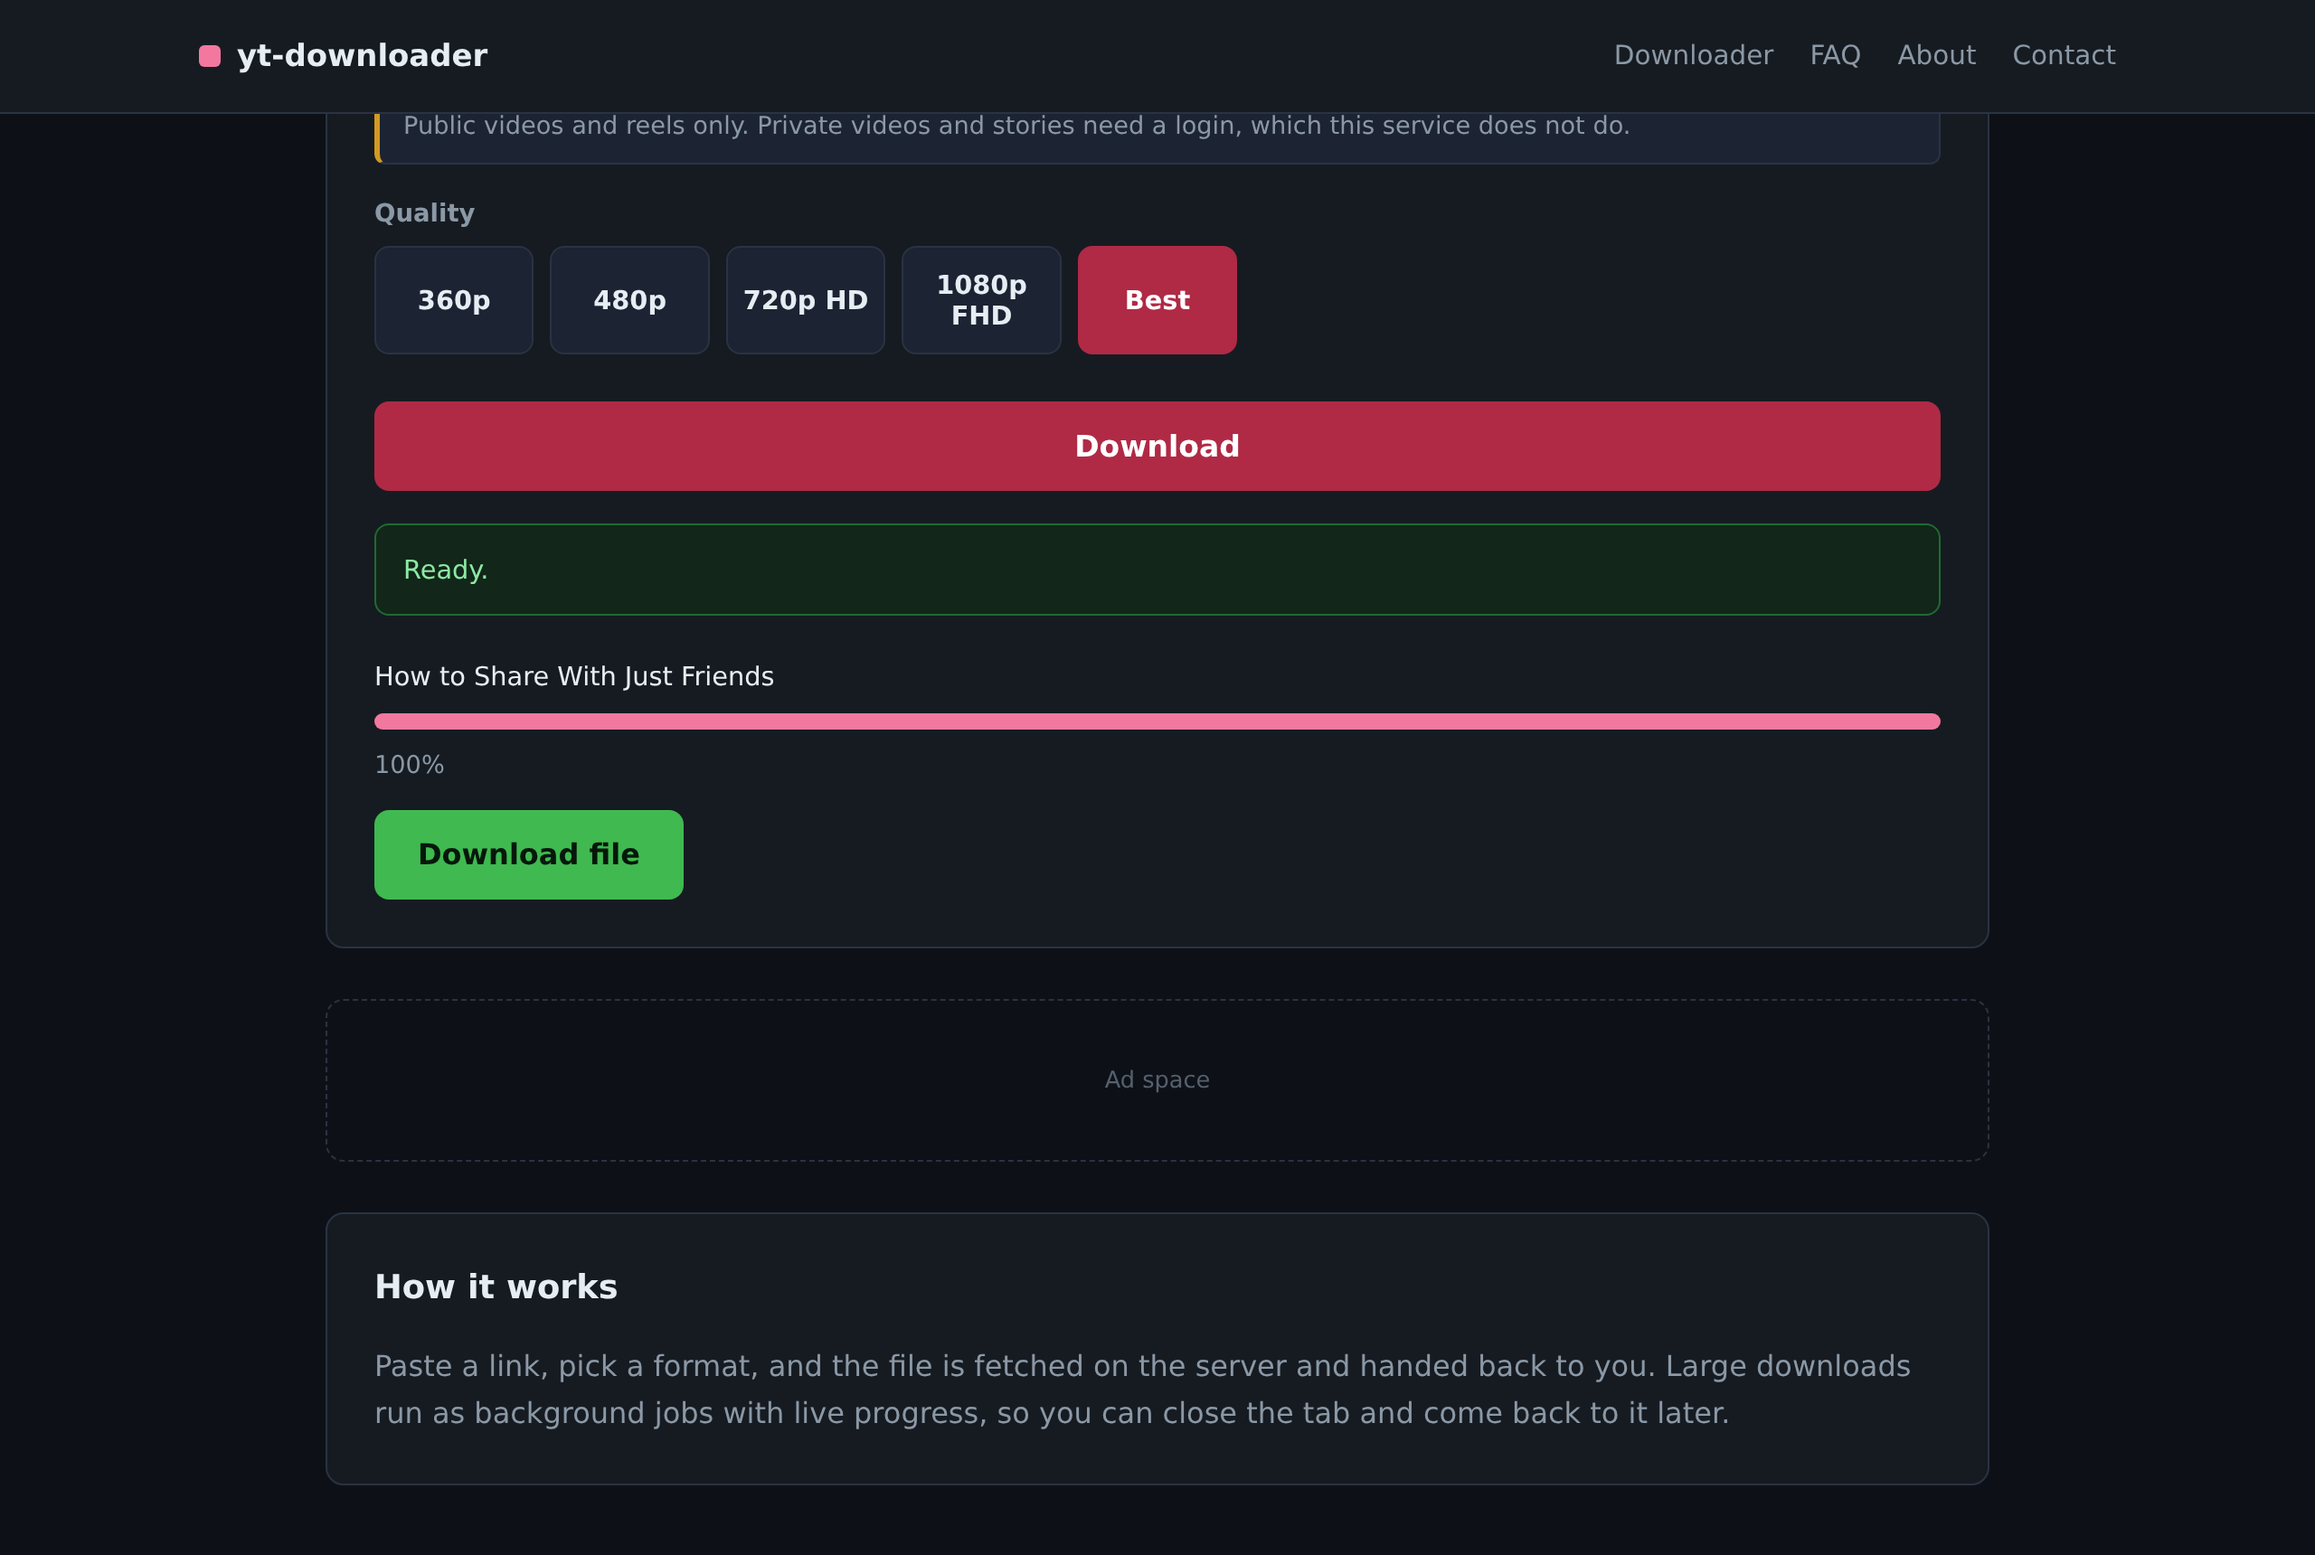
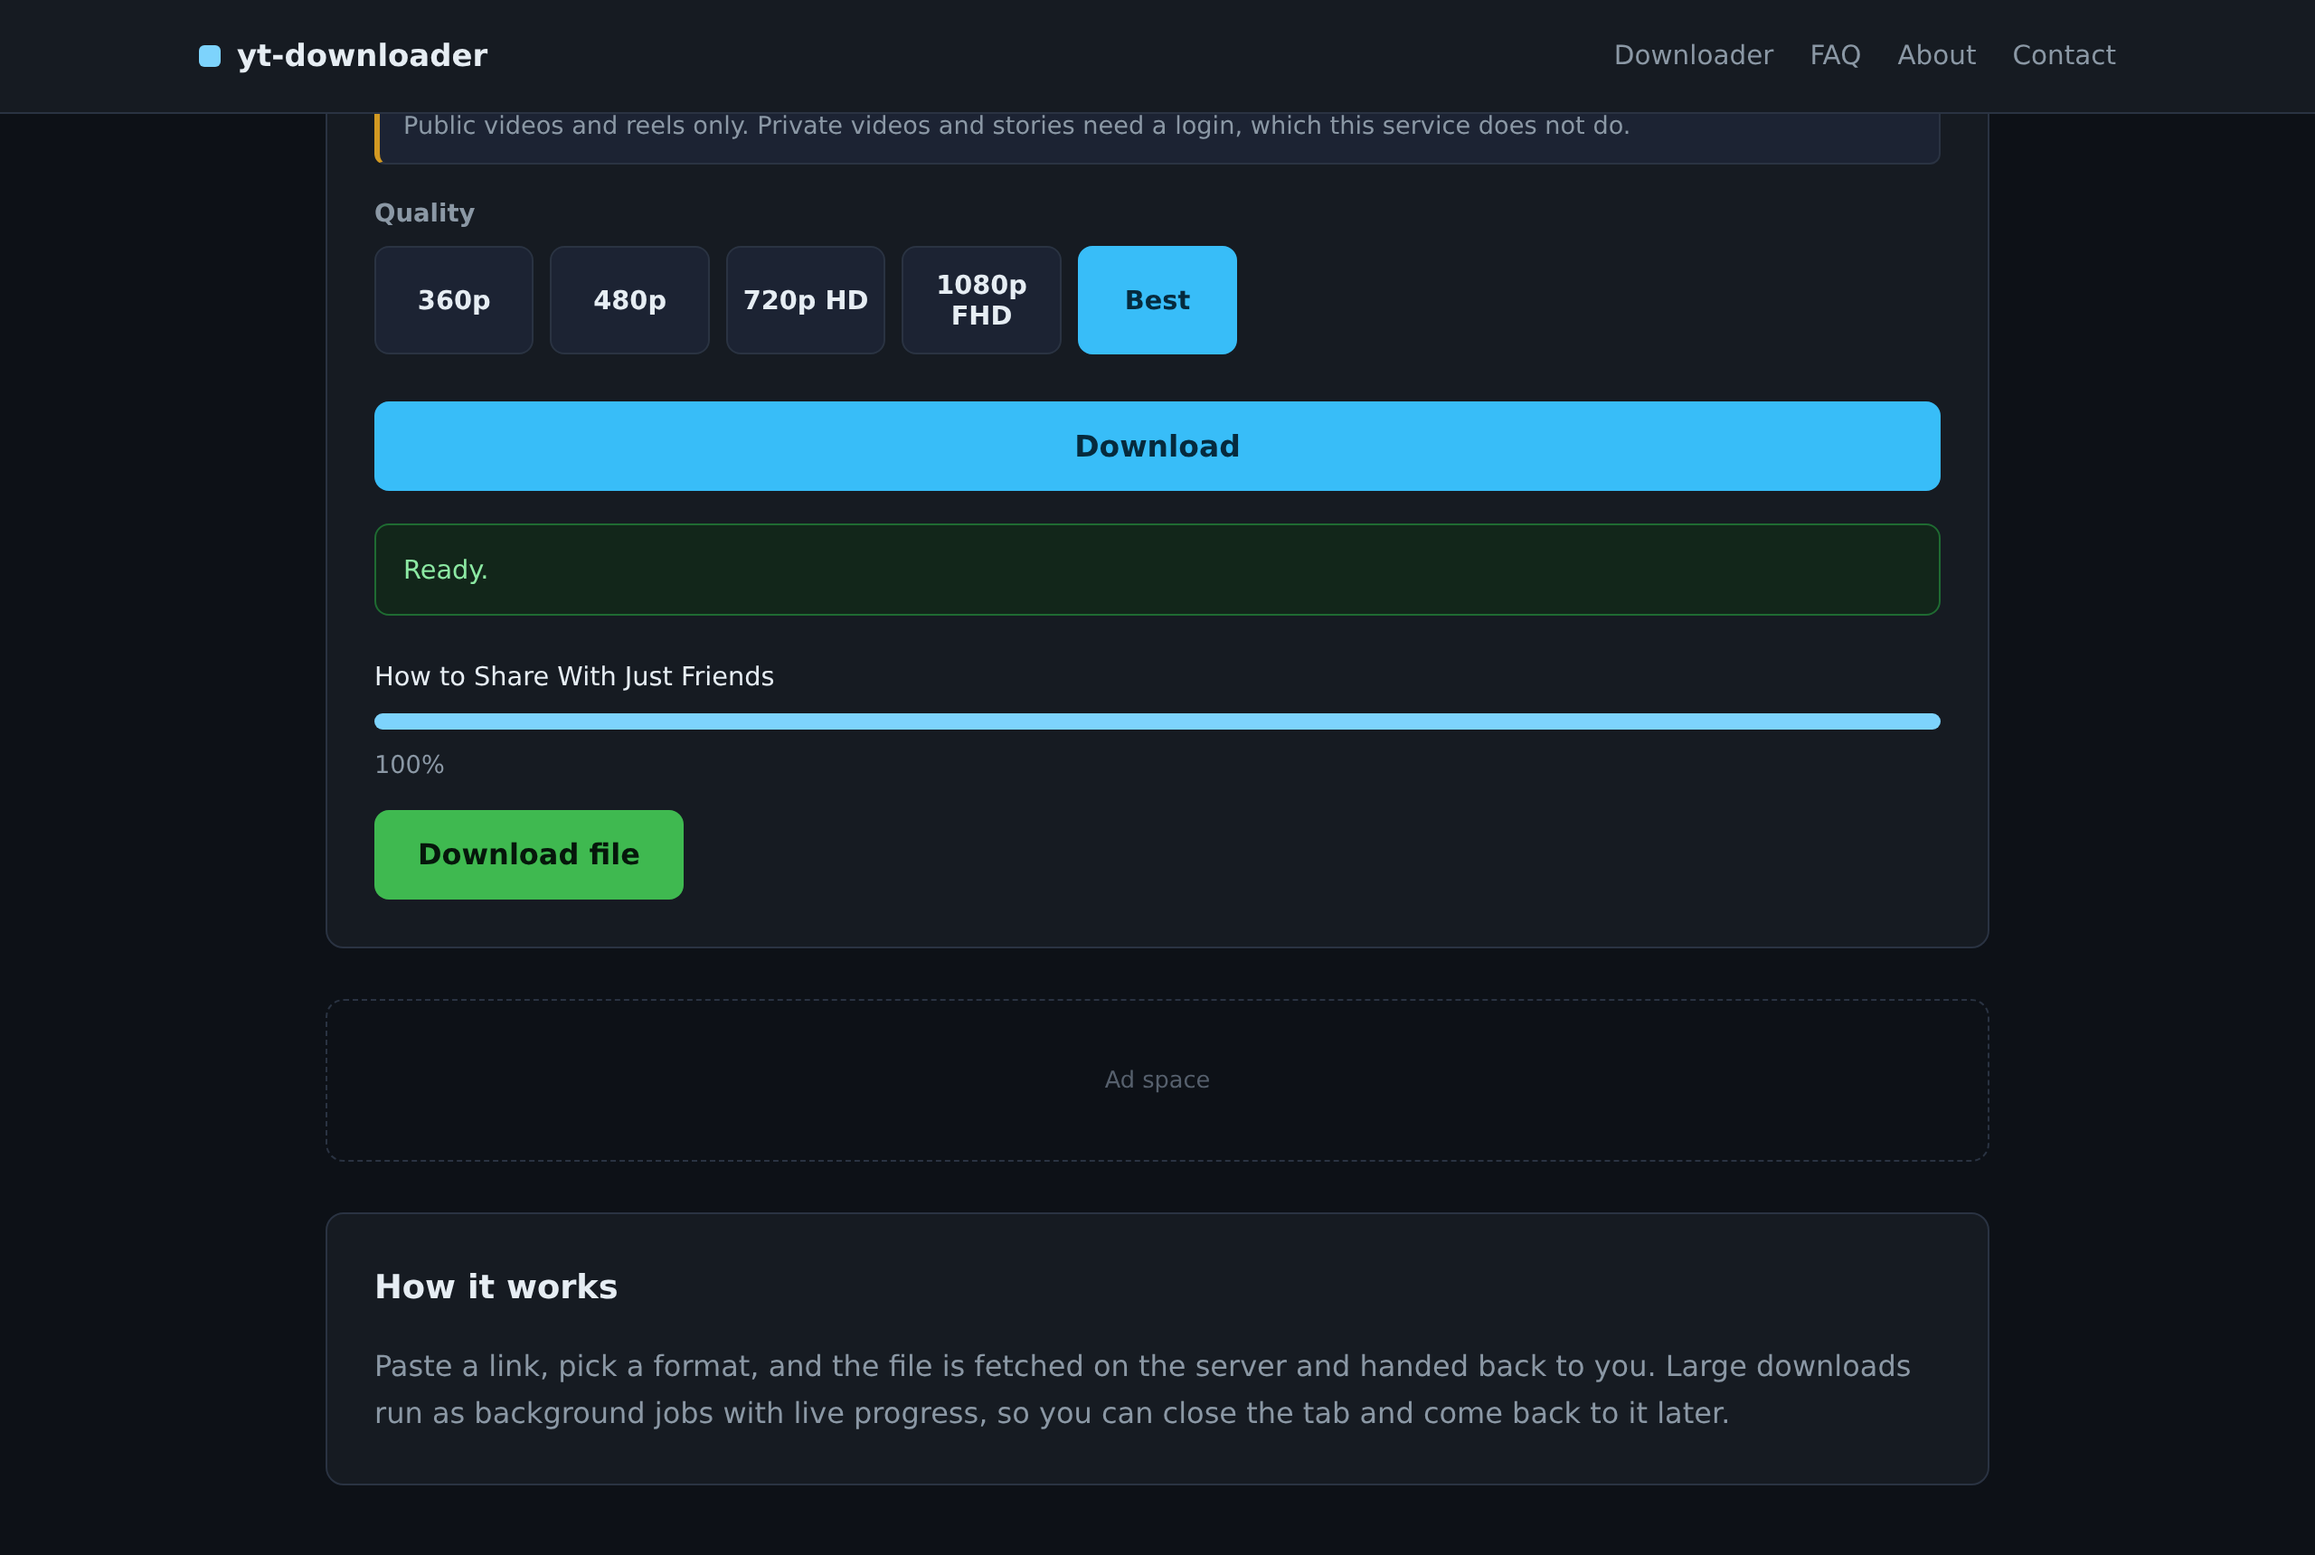
Switch the accent to sky blue and clear the last reds
The rose accent was still not what was wanted, and red was showing up in two
places I had missed: the screenshots (which bake in the UI colour) and the
favicon, which was a flat 16x16 square of the original #ff0033.

Sky blue is light, so it cannot carry white text — white on any usable sky blue
measures about 2:1. The palette therefore splits into four roles:

  --accent        #7dd3fc  text, borders, progress fill on dark   11.35:1
  --accent-solid  #38bdf8  filled buttons and active tabs
  --accent-ink    #062a3d  the text on those filled surfaces       6.97:1
  --accent-hover  #0ea5e9  hover fill, still clears the ink        5.39:1

Every filled surface that used to set `color: #fff` now uses --accent-ink.
There are no white-on-accent combinations left. All four values clear WCAG AA;
the previous red failed at 3.96:1 against its own button label.

The error alert keeps its red tint (#3a1a20 on #ffc9d2, 10.78:1). Red is the
correct signal for an error, and it has to stay distinct from the accent — a
blue error state would be indistinguishable from a normal action.

Also recoloured the one red in the diagrams: the rejection path in
request-flow.svg moves from #b02a45 to #0369a1, which reads on the light canvas
(5.57:1) and stays distinct from the #0969da already used in those SVGs.

Recaptured all four screenshots and rewrote the favicon. Verified pixel-wise
that red and rose both appear zero times in the new captures, with sky blue and
the ink present instead.
[…]

Changed region(s): [[0.1562, 0.1541, 0.8438, 0.339], [0.1562, 0.4314, 0.8438, 0.493]]

diff --git a/frontend/assets/style.css b/frontend/assets/style.css
@@ -5,15 +5,18 @@
   --border: #2a3342;
   --text: #e6edf3;
   --muted: #8b98a5;
-  /* Rose accent, replaces the earlier saturated red. Chosen so that both
-     directions of use clear WCAG AA (4.5:1):
-       --accent        link text on --bg      7.18:1
-       --accent-solid  filled button surfaces 6.44:1 against white text
-     Keep the two roles separate: --accent is too light for white text, and
-     --accent-solid is too dark for body text on --bg. */
-  --accent: #f2789f;
-  --accent-hover: #c9334b;
-  --accent-solid: #b02a45;
+  /* Sky-blue accent. Two fill roles plus an ink, because a sky blue that
+     reads as text on --bg is far too light to carry white text:
+       --accent        link text, borders, progress fill   11.35:1 on --bg
+       --accent-solid  filled buttons / active tabs         sky-400
+       --accent-ink    text sitting on --accent-solid       6.97:1
+       --accent-hover  hover fill, still clears ink         5.39:1
+     Filled surfaces use dark ink, never white. White on any of these blues
+     tops out around 2:1. */
+  --accent: #7dd3fc;
+  --accent-solid: #38bdf8;
+  --accent-ink: #062a3d;
+  --accent-hover: #0ea5e9;
   --ok: #3fb950;
   --warn: #d29922;
   --radius: 10px;
@@ -120,7 +123,7 @@ nav.site a:hover { color: var(--text); text-decoration: none; }
   transition: background 0.15s, color 0.15s;
 }
 
-.toggle button.active { background: var(--accent-solid); color: #fff; }
+.toggle button.active { background: var(--accent-solid); color: var(--accent-ink); }
 .toggle button:hover:not(.active) { color: var(--text); }
 
 /* ---------- Input ---------- */
@@ -174,14 +177,14 @@ input:focus, textarea:focus, select:focus {
 .quality-grid button.active {
   background: var(--accent-solid);
   border-color: var(--accent-solid);
-  color: #fff;
+  color: var(--accent-ink);
 }
 
 /* ---------- Primary button ---------- */
 .btn-primary {
   width: 100%;
   background: var(--accent-solid);
-  color: #fff;
+  color: var(--accent-ink);
   border: 0;
   border-radius: 8px;
   padding: 15px;

diff --git a/README.md b/README.md
@@ -71,28 +71,34 @@ direct link to `/api/file/{task_id}`.*
 
 ## Colour and accessibility
 
-The accent is a rose (`#f2789f`), not a saturated red. Bright red on a dark
-surface is hard to look at for long — it vibrates against the background, and it
-is the colour people are trained to read as "error", which is the wrong signal
-for a normal primary action.
+The accent is a sky blue. It has been through two revisions — a saturated red
+(`#ff0033`), then a rose — because bright red on a dark surface is uncomfortable
+to look at for long, and it reads as "error", which is the wrong signal for an
+ordinary primary action.
 
-One variable cannot serve both roles, so the palette splits them:
+A sky blue light enough to read as text on the dark background is far too light
+to carry white text, so the palette splits the roles:
 
 | Token | Value | Used for | Contrast |
 |-------|-------|----------|----------|
-| `--accent` | `#f2789f` | Link text, borders, progress fill, chips | 7.18:1 on `--bg` |
-| `--accent-solid` | `#b02a45` | Filled buttons and active tabs, under white text | 6.44:1 against white |
-| `--accent-hover` | `#c9334b` | Hover state for the filled buttons | 5.17:1 against white |
+| `--accent` | `#7dd3fc` | Link text, borders, progress fill, chips | 11.35:1 on `--bg` |
+| `--accent-solid` | `#38bdf8` | Filled buttons and active tabs | — |
+| `--accent-ink` | `#062a3d` | Text on `--accent-solid` | 6.97:1 |
+| `--accent-hover` | `#0ea5e9` | Hover fill for those buttons | 5.39:1 with the ink |
 
-This is not cosmetic. The previous `--accent: #ff0033` measured **3.96:1**
-against white text on the primary button, below the WCAG AA threshold of 4.5:1.
-The rose pair clears AA in both directions, so the same token is safe as body
-text on the dark background and as a button surface under white text. The error
-alert was softened to a rose tint as well (`#3a1a20` on `#ffc9d2`, 10.78:1) so
-it stays distinguishable from the accent without shouting.
+Filled surfaces use the dark ink, never white: white on any of these blues
+measures about 2:1, far below the WCAG AA threshold of 4.5:1. The original red
+was not only harsh, it also failed at 3.96:1 against its own white button label.
+Every value above clears AA.
 
-All colours live in the `:root` block of `frontend/assets/style.css`. Change
-them there; no page or script hardcodes a colour.
+The error alert keeps a red tint on purpose, because red is the correct signal
+for an error (`#3a1a20` on `#ffc9d2`, 10.78:1). It is deliberately distinct from
+the blue accent.
+
+All colours live in the `:root` block of `frontend/assets/style.css`, and the
+favicon uses `--accent-solid`. Change them there; no page or script hardcodes a
+colour. Because the screenshots show the UI, changing the palette means
+recapturing them.
 
 ## Stack
 

diff --git a/AGENTS.md b/AGENTS.md
@@ -94,16 +94,24 @@ docker compose config --quiet   # validate before pushing
 
 ## README assets
 
-- **The accent palette is rose, not red, and splits into two tokens.** Bright
-  red (`#ff0033`) vibrates on the dark background and reads as "error" on a
-  primary action; it also measured only 3.96:1 against white button text, below
-  WCAG AA. Use `--accent: #f2789f` for text, borders and fills on dark surfaces
-  (7.18:1), and `--accent-solid: #b02a45` for any filled surface that carries
-  white text (6.44:1). Never put white text on `--accent`; never put body text
-  on `--accent-solid`. All colours live in `:root` in
-  `frontend/assets/style.css` — no page or script hardcodes one, so the palette
-  is a one-file change. Changing it means recapturing the screenshots, since
-  they show the UI.
+- **The accent palette is sky blue, and splits across four tokens.** Bright red
+  (`#ff0033`) vibrates on the dark background, reads as "error" on a primary
+  action, and measured only 3.96:1 against its own white button label — below
+  WCAG AA. The roles cannot share one variable: a sky blue light enough to read
+  as text on `--bg` is far too light for white text on top of it. So:
+  - `--accent: #7dd3fc` — text, borders, progress fill on dark (11.35:1)
+  - `--accent-solid: #38bdf8` — filled buttons and active tabs
+  - `--accent-ink: #062a3d` — the text on those filled surfaces (6.97:1)
+  - `--accent-hover: #0ea5e9` — hover fill, still clears the ink (5.39:1)
+
+  Filled surfaces use `--accent-ink`, **never** `#fff`; white on these blues is
+  about 2:1. The error alert keeps a red tint deliberately (`#3a1a20` on
+  `#ffc9d2`), because red is the right signal for an error and must stay
+  distinct from the accent. All colours live in `:root` in
+  `frontend/assets/style.css`, and `frontend/assets/favicon.ico` is a flat
+  `--accent-solid` square — no page or script hardcodes a colour, so the palette
+  is a one-file change. Changing it means recapturing the screenshots and
+  rewriting the favicon, since both bake in the colour.
 - `docs/img/*.svg` are hand-written diagrams (architecture, request flow, format
   pipeline, platform matrix). They use only text, rects, lines and paths, so
   GitHub renders them without a rasteriser. Keep `font-size` at 11.5px or above
